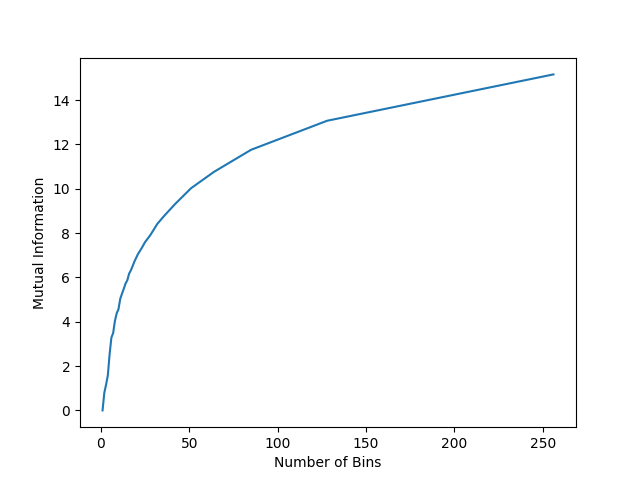
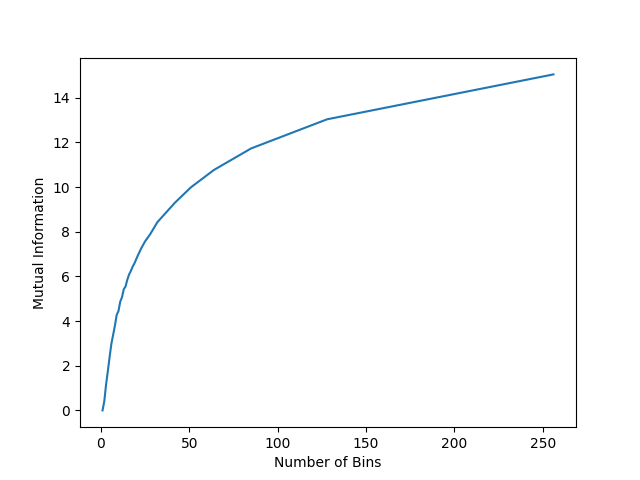
added noise function

diff --git a/assignment-3/src/mutual-information.py b/assignment-3/src/mutual-information.py
@@ -1,0 +1,94 @@
+import numpy as np
+import matplotlib.pyplot as plt
+import seaborn as sns
+from PIL import Image
+import skimage
+from skimage import io
+
+
+### entropy calculation
+def calculateEntropy(X):
+    uniq = set(X)
+    P = [np.mean(X == x) for x in uniq]
+    return sum(-p * np.log2(p) for p in P)
+
+
+### main calculation step of mutual information
+def mutualInfoCalc(img, num_bins):
+    top, bottoms = reshapeImage(img)
+    mis = []
+    for i in range(len(bottoms)):
+        hist = np.histogram2d(np.asarray(top).flatten(), np.asarray(bottoms[i]).flatten(), bins=num_bins)
+        hist_img = Image.fromarray(hist[0], 'RGB')
+        top_hist = np.histogram(np.asarray(top).flatten(), bins=num_bins)
+        bot_hist = np.histogram(np.asarray(bottoms[i]).flatten(), bins=num_bins)
+        mis.append(calculateEntropy(top_hist[0]) + calculateEntropy(bot_hist[0]) - calculateEntropy(np.asarray(hist_img).flatten()))
+    return mis
+
+
+### split the image into RGB channels, and crop red and green channels
+### of the original image according to the assignment's description
+def reshapeImage(img):
+    red = img[:,:,0]
+    green = img[:,:,1]
+    width, height = img.shape[0], img.shape[1]
+    top = red[20:width-20, 0:height]
+    bottoms = [green[40-x:width-x, 0:height] for x in range(40, -1, -1) ]
+    return top, bottoms
+    # return top, [green.crop((40-x, 0, width-x, height)) for x in range(40, -1, -1)]
+
+
+
+### initialize various bin sizes
+def binSizeChangeAlt(img):
+    top, bottoms = reshapeImage(img)
+    mis = {}
+    binses = set([int(256/x) for x in range(1,256)])
+    for binss in binses:
+        hist = np.histogram2d(np.asarray(top).flatten(), np.asarray(bottoms[20]).flatten(), bins=binss)
+        hist_img = Image.fromarray(hist[0], 'RGB')
+        top_hist = np.histogram(np.asarray(top).flatten(), bins=binss)
+        bot_hist = np.histogram(np.asarray(bottoms[20]).flatten(), bins=binss)
+        mi = calculateEntropy(top_hist[0]) + calculateEntropy(bot_hist[0]) - calculateEntropy(np.asarray(hist_img).flatten())
+        mis[binss] = mi
+    return mis
+
+
+### calculate mutual information and save plot results
+def mutuallInformation(img, img_name):
+    fig = plt.figure()
+    plt.ylabel('Mutual Information')
+    plt.xlabel('Image Translations')
+    sns.lineplot(x=[x for x in range(41)], y=mutualInfoCalc(img, 256))
+    translations_outputImgPath = "../output/" + img_name + "_translations"
+    plt.savefig(translations_outputImgPath)
+
+    fig = plt.figure()
+    plt.ylabel('Mutual Information')
+    plt.xlabel('Number of Bins')
+    mis = binSizeChangeAlt(img)
+    x, y = zip(*(sorted(mis.items())))
+    sns.lineplot(x=x, y=y)
+    binSize_outputImgPath = "../output/" + img_name + "_binSize"
+    plt.savefig(binSize_outputImgPath)
+
+
+# add noise to the original image
+def addNoise(img, mode):
+    gimg = skimage.util.random_noise(img, mode=mode)
+    return gimg
+    
+
+def main():
+    img_path = "../input/puffin.jpg"
+    # input_img = Image.open(img_path)
+    input_img = skimage.io.imread(img_path)/255.0
+    img_name = img_path[len("../input/"): -len(".jpg")]
+
+    noisy_img = addNoise(input_img, "salt");
+    noisy_img = addNoise(noisy_img, "salt");
+
+    mutuallInformation(noisy_img, img_name)
+
+if __name__ == '__main__':
+    main()
